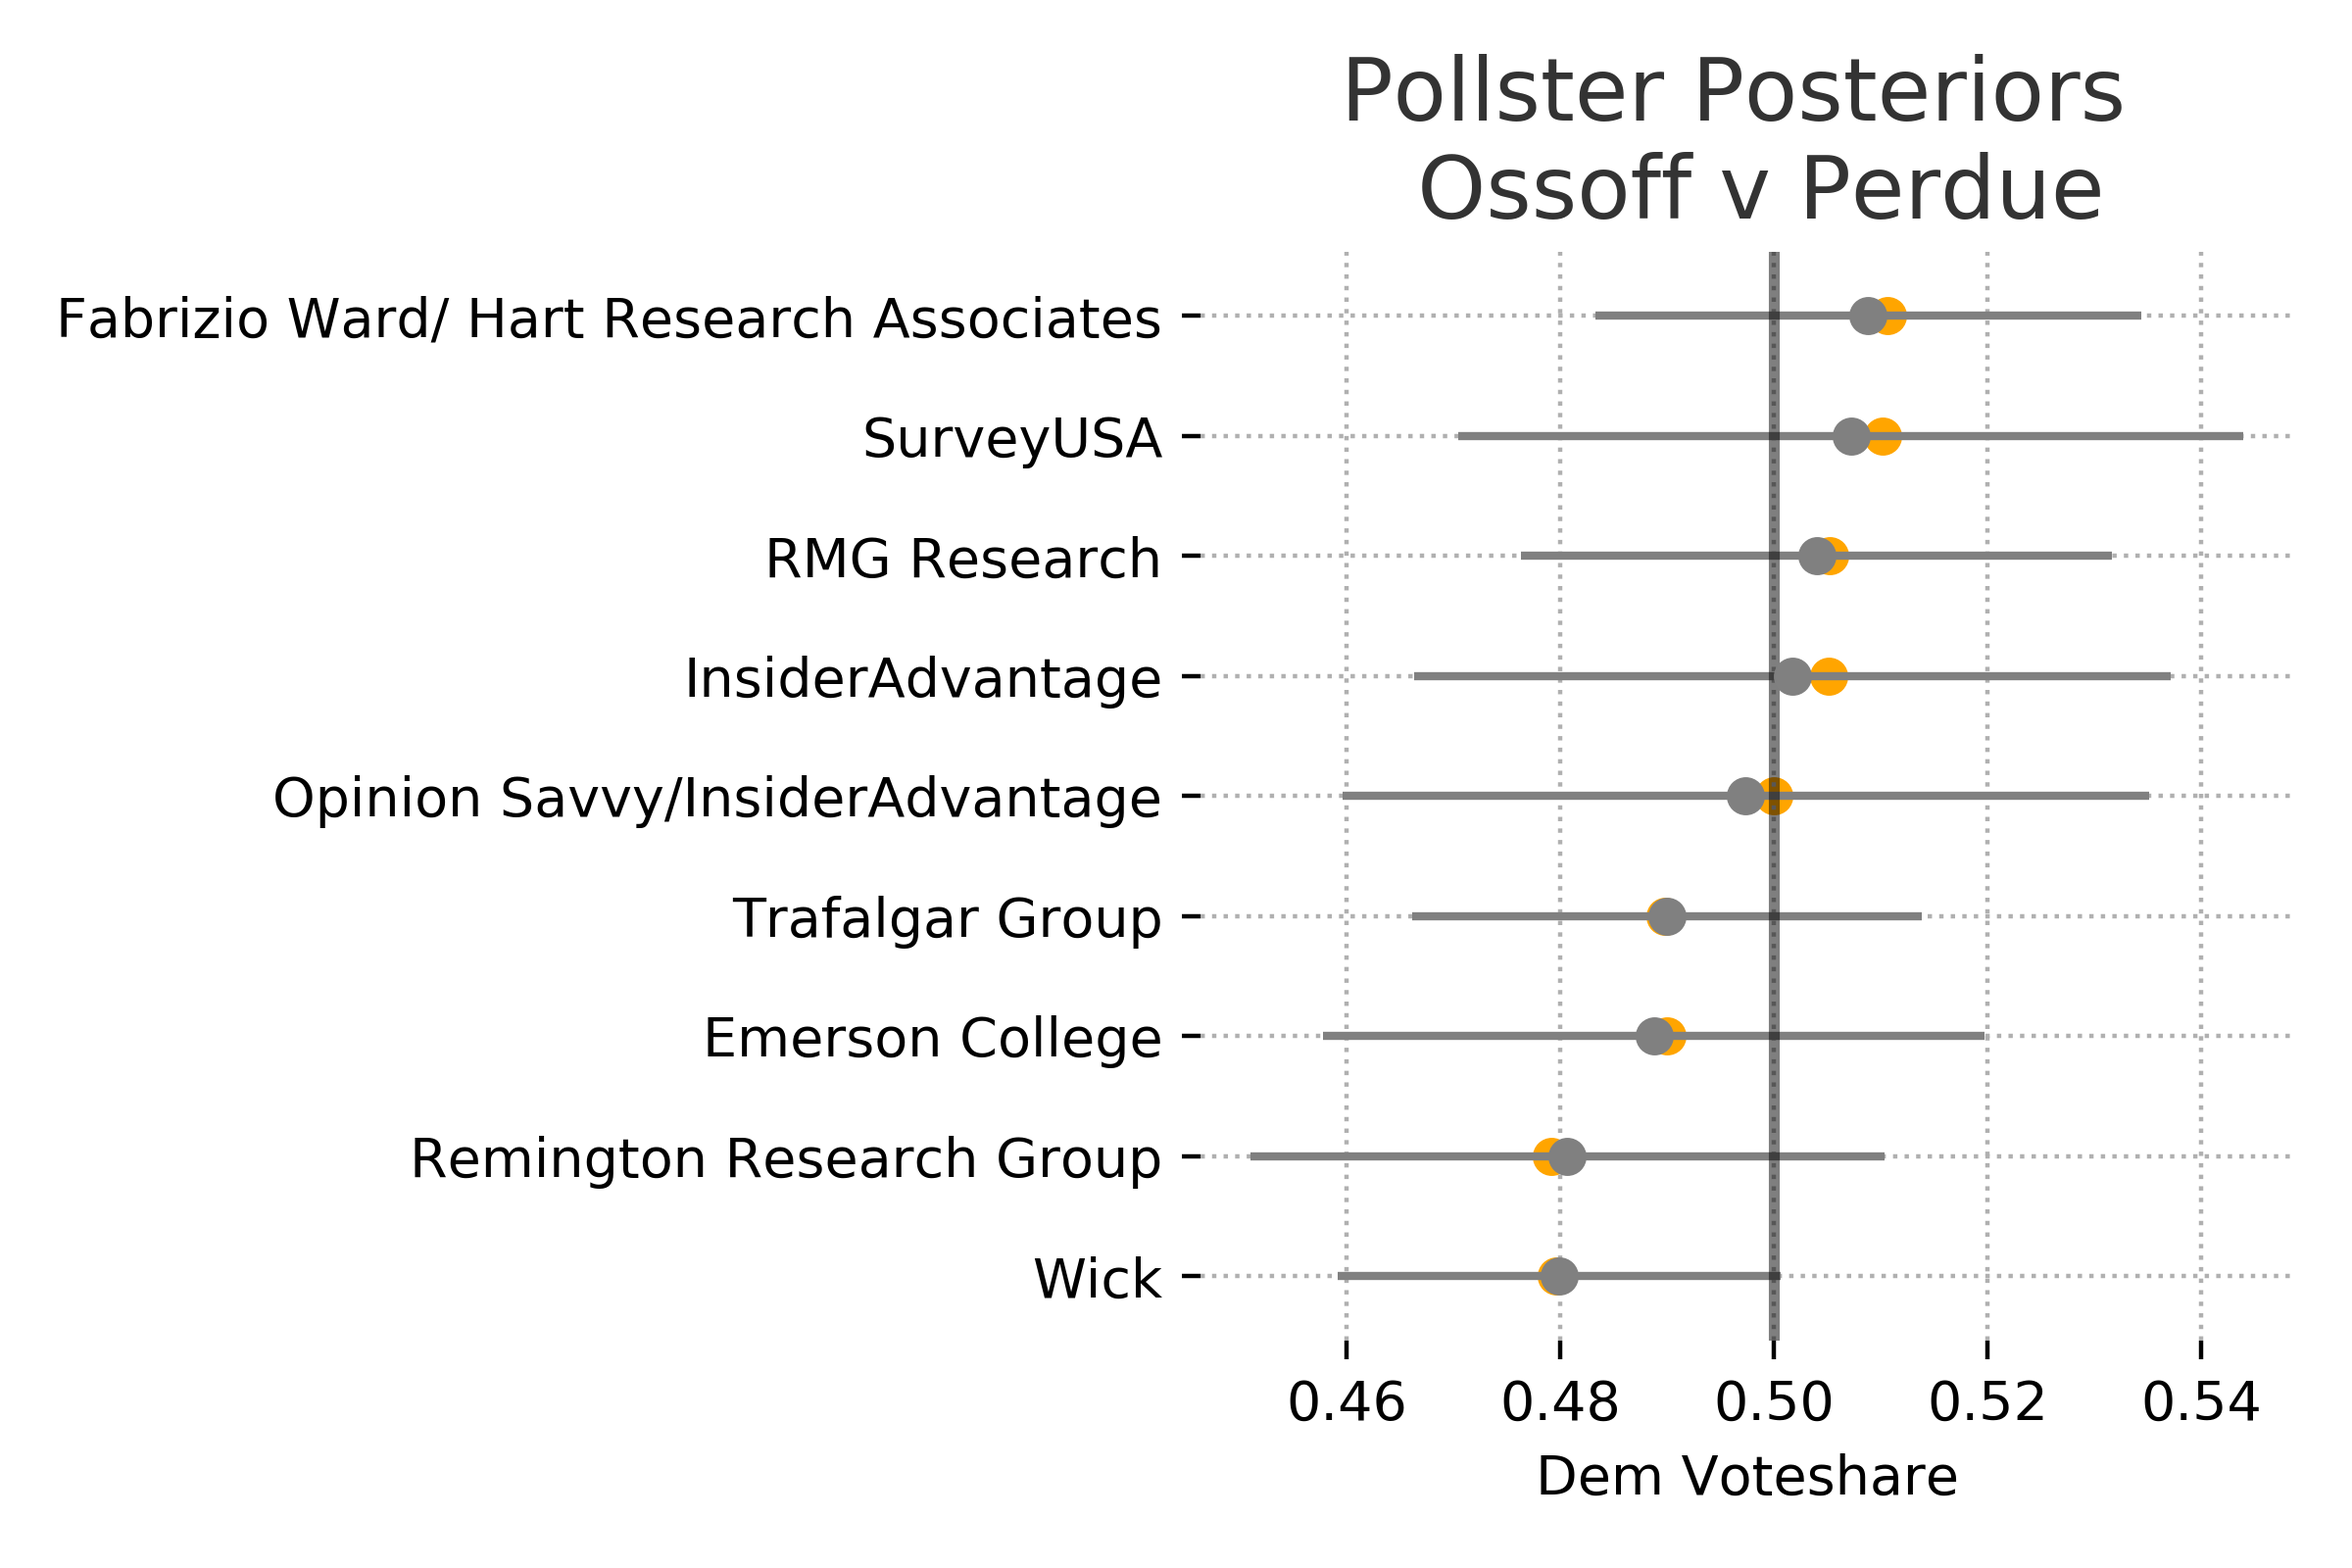
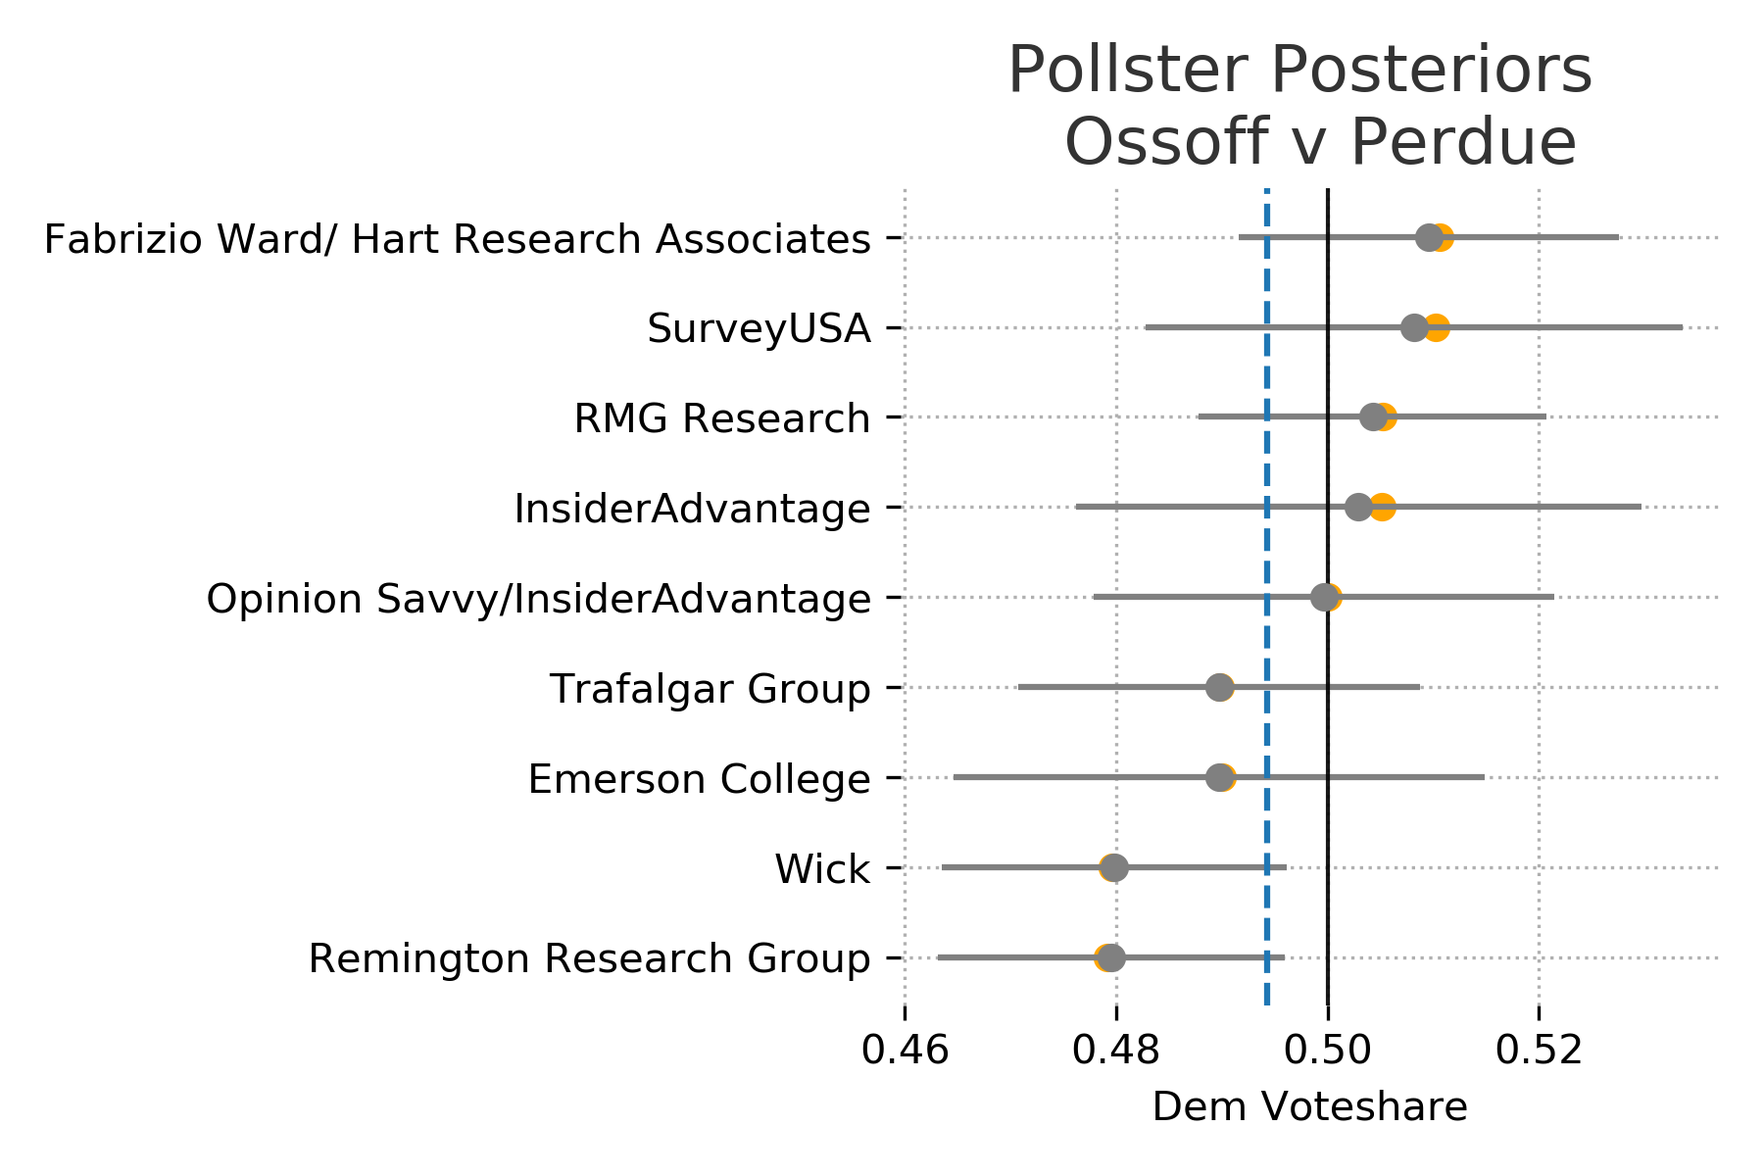
added MAP estimates to pollster plots

diff --git a/_posts/2020-12-18-election.md b/_posts/2020-12-18-election.md
@@ -66,7 +66,7 @@ However some decisions had to be made for the Warnock-Loeffler prior because the
 
 Interestingly, if we plot each of the learned pollster distributions the model tends to push the median voteshare slightly towards the Republicans when compared with the actual poll results. However each of the actual results are still well within the expected ranges of each pollsters distribution. This is likely due to the polls generally favoring the Democrats while the past election results favored the Republicans. 
 
-Plot the actual polls results in orange and the estimated poll distribution in gray. If we don't see any orange is because the estimated median completely overlaps the actual results. 
+Plot the actual polls results in orange and the estimated poll distribution in gray. If we don't see any orange is because the estimated median completely overlaps the actual results. The dashed blue line is the [maximum a posteriori](https://en.wikipedia.org/wiki/Maximum_a_posteriori_estimation) estimate of Democratic vote share.
 
 {: .center}
 ![WL Pollsters](../images/wl_pollster-lean.png)
